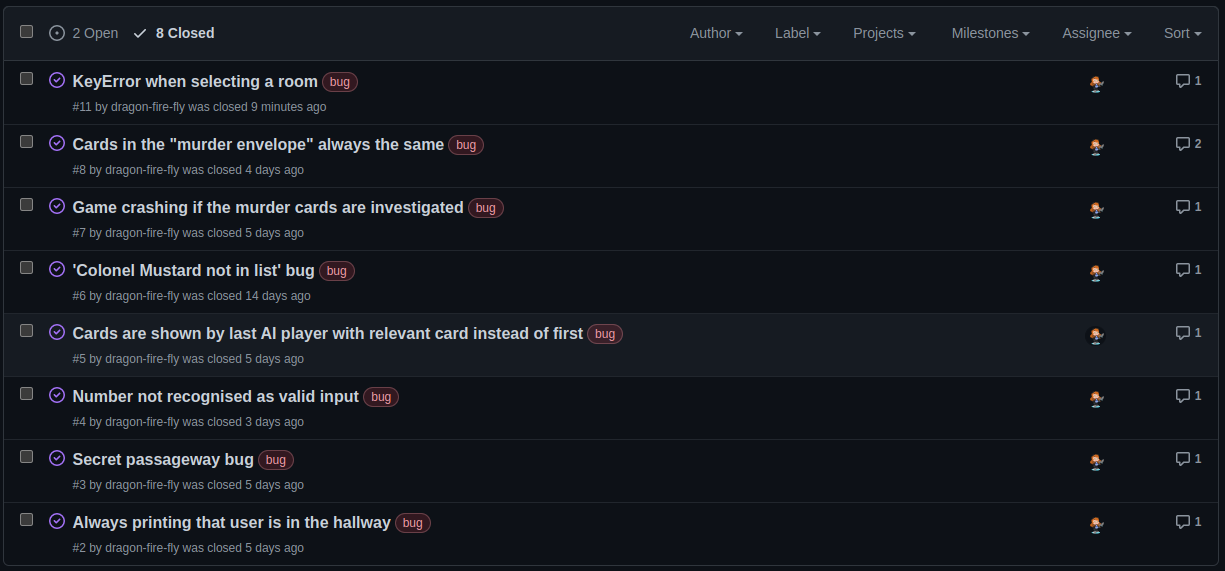
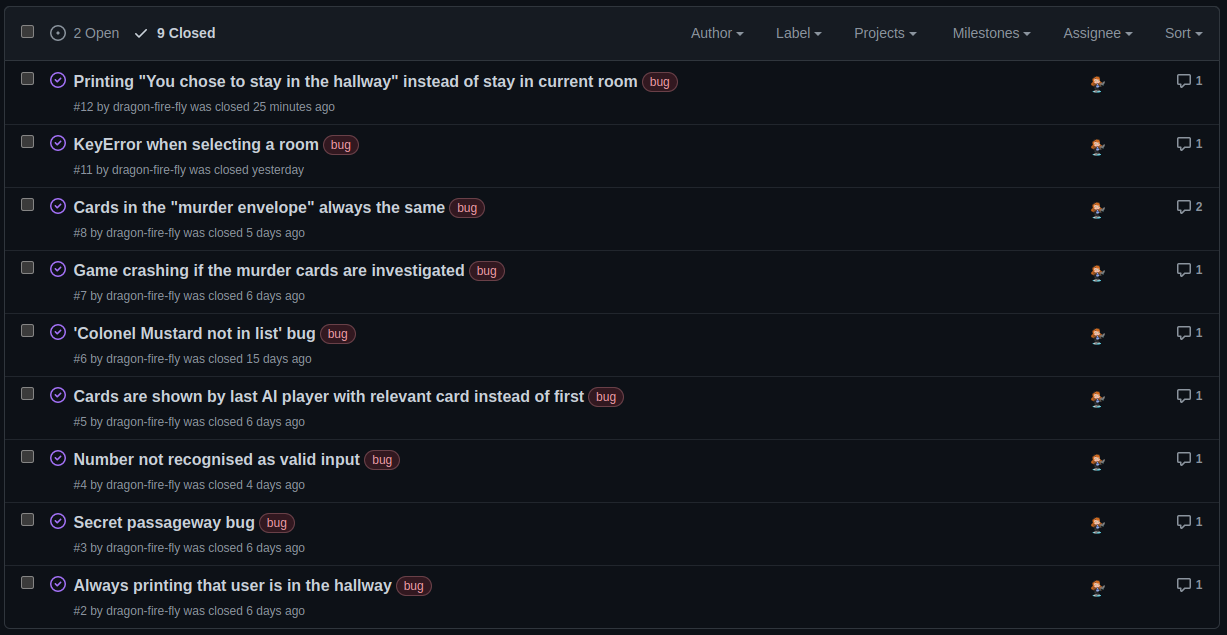
Update bugs section with newly discovered bug

diff --git a/README.md b/README.md
@@ -123,6 +123,8 @@ The investigation card is updated each time another player shows a card.
 ![correct guess](documentation/features/game_features/correct_guess.png)  
 ![incorrect guess](documentation/features/game_features/wrong_guess.png)  
 
+
+
 **Favicon**  
 A magnifying glass icon was chosen as the favicon for the Heroku terminal program  
 ![favicon](documentation/features/game_features/favicon.png)  
@@ -408,6 +410,8 @@ Python Modules used:
 
 ## Testing
 ### Manual testing
+Details of manual testing may be found in the dedicated [TESTING document]((https://github.com/dragon-fire-fly/cluedo/blob/main/TESTING.md)).
+
 ### PEP-8 Compliance
 
 
@@ -426,6 +430,7 @@ The details of each of the resolved and outstanding bugs can be viewed by follow
 6. [Game crashing if the murder cards are investigated bug](https://github.com/dragon-fire-fly/cluedo/issues/7) (issue #7)
 7. [Cards in the "murder envelope" always the same bug](https://github.com/dragon-fire-fly/cluedo/issues/8) (issue #8)
 8. [KeyError when selecting a room](https://github.com/dragon-fire-fly/cluedo/issues/11) (issue #11)
+9. [Printing "You chose to stay in the hallway" instead of stay in current room](https://github.com/dragon-fire-fly/cluedo/issues/12)(issue #12)
 
 ### Outstanding Bugs
 1. [Sometimes end in wrong room bug](https://github.com/dragon-fire-fly/cluedo/issues/9) (issue #9)  
